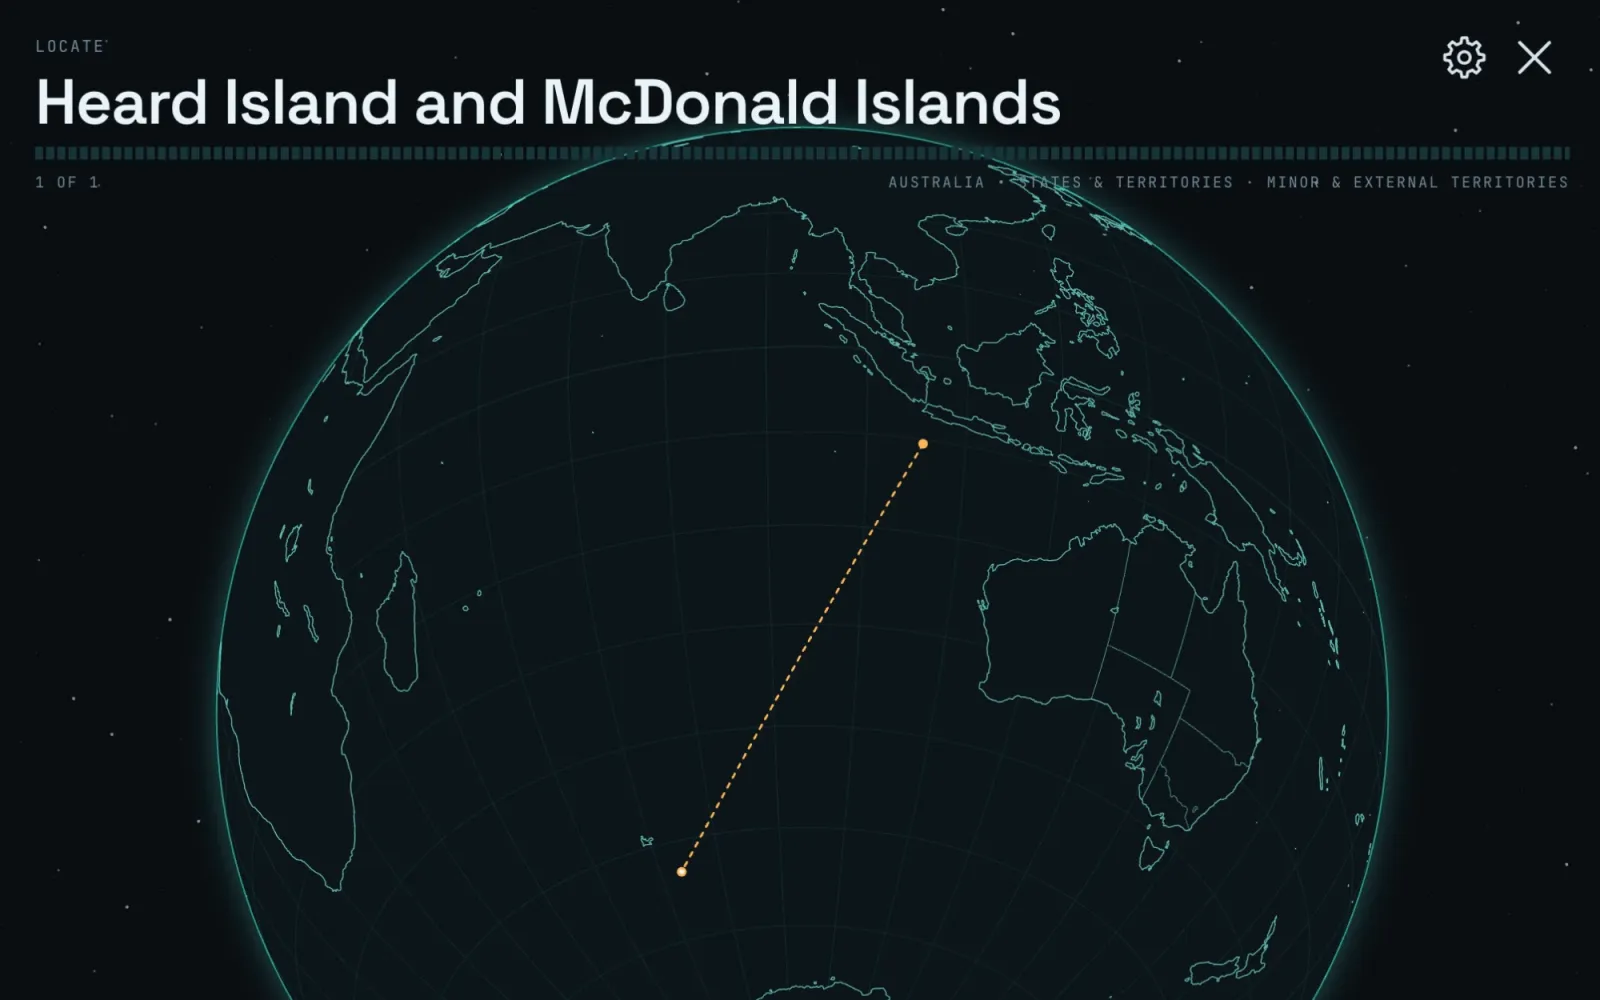
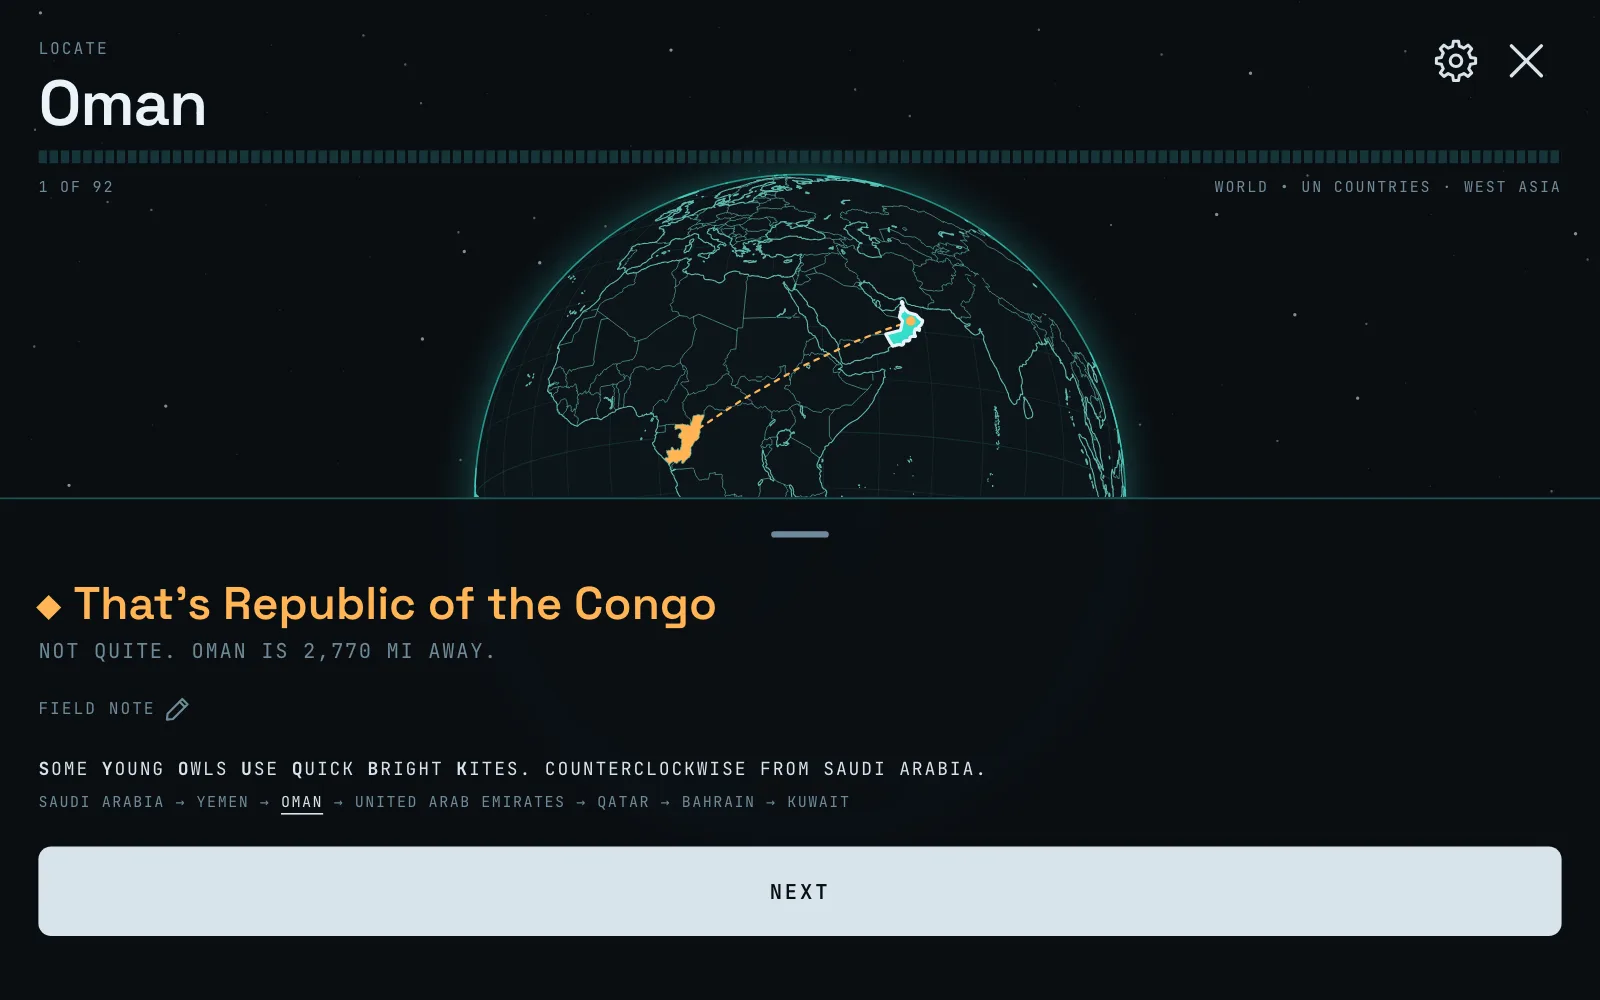
Retake the Whole Wide World and Home Program Builder screenshots, and add a near miss and the PDF view

diff --git a/projects/index.html b/projects/index.html
@@ -441,9 +441,10 @@
         <div class="body">
           <p class="blurb">A mobile-first web app that uses spaced repetition to teach where every country, state, and province is, on a globe you can spin and zoom.</p>
           <div class="shots">
-            <img src="img/wholewideworld.webp" width="1600" height="1000" alt="Whole Wide World's home screen in its light theme, with the globe and the current deck" loading="lazy">
-            <img src="img/wholewideworld-decks.webp" width="1600" height="1000" alt="Whole Wide World's Decks list, with progress and what's due" loading="lazy">
-            <img src="img/wholewideworld-locate.webp" width="1600" height="1000" alt="A Locate question in Whole Wide World, with a dotted line from a missed guess to the answer" loading="lazy">
+            <img src="img/wholewideworld.webp" width="1600" height="1000" alt="Whole Wide World's Today screen in the Atlas theme, with the globe, what's due, and Start" loading="lazy">
+            <img src="img/wholewideworld-decks.webp" width="1600" height="1000" alt="Whole Wide World's Decks list in the Prism theme, with progress and what's due" loading="lazy">
+            <img src="img/wholewideworld-locate.webp" width="1600" height="1000" alt="A Locate question for Oman in the Tactical theme, with a dotted line from a miss in the Republic of the Congo and a field note" loading="lazy">
+            <img src="img/wholewideworld-near-miss.webp" width="1600" height="1000" alt="A near miss on Maryland in the Relief theme, zoomed in on the Chesapeake, with a field note on the Delmarva Peninsula" loading="lazy">
           </div>
           <p class="stack">Vite · React · TypeScript · PWA with a service worker · progress in IndexedDB on the reader's device · d3-geo · ts-fsrs · Cloudflare Pages, built from the <code>release</code> branch · a Cloudflare Worker with Durable Objects for Magic Transfer, deployed by hand with Wrangler</p>
           <details class="managing">
@@ -546,7 +547,8 @@
         <div class="body">
           <p class="blurb">A small web app for a physical therapist to build a patient's home exercise program in a couple of minutes and save it as a PDF, with the exercise library and every word on the PDF kept in a Google Sheet the therapist edits.</p>
           <div class="shots">
-            <img src="img/home-exercises.webp" width="1600" height="1000" alt="Home Program Builder's day editor, with a warmup, main lifts, and a superset of accessories" loading="lazy">
+            <img src="img/home-exercises.webp" width="1600" height="1000" alt="Home Program Builder's day editor, with a warm-up, main lifts, and a superset of accessories" loading="lazy">
+            <img src="img/home-exercises-pdf.webp" width="1600" height="1000" alt="Home Program Builder's PDF view of the same program, with sets, loads, effort, and video links" loading="lazy">
           </div>
           <p class="stack">Plain HTML, CSS, and JavaScript (ES modules), no build step · Papa Parse from cdnjs · Google Sheets tabs published as CSV · PDF through the browser's print dialog · Vercel Hobby plan</p>
           <details class="managing">
